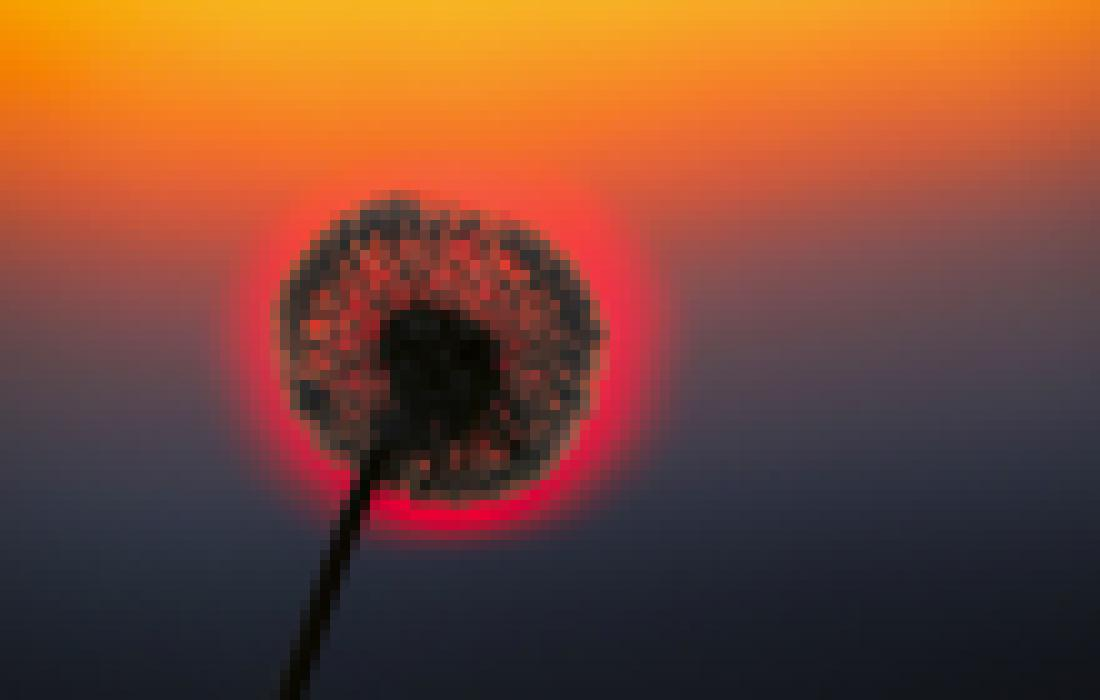
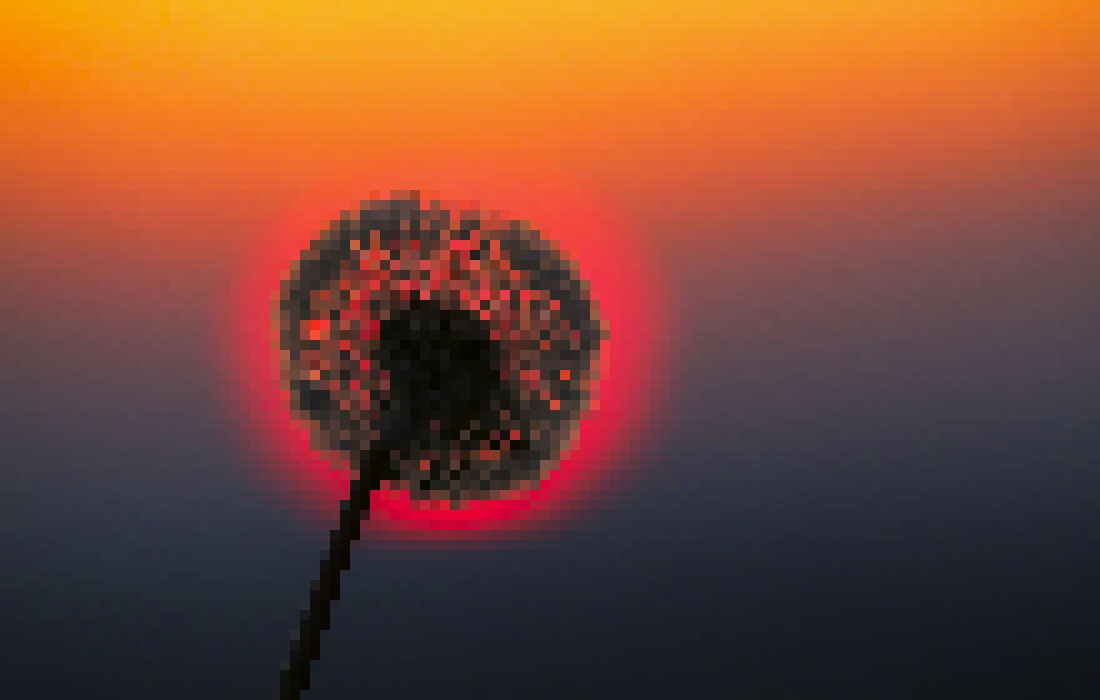
iss2

diff --git a/main.py b/main.py
@@ -1,3 +1,5 @@
+import numpy as np
+import cv2
 import random
 from PIL import Image
 
@@ -86,7 +88,7 @@ for x in range(new_width):
 # Сохранение полученного пиксель-арта
 pixel_art.save('pixel_art.jpg')
 """
-
+"""
 main_image = Image.open('2.jpg')
 # Масштабирование пиксель-арта до нужных размеров
 width, height = main_image.size
@@ -125,3 +127,52 @@ result = Image.alpha_composite(
 
 # Сохранение результата
 result.save('result_image.png')
+"""
+"""
+# Загрузка фото
+image = cv2.imread('1.jpg')
+
+# Определение размеров пиксель-арта
+pixel_size = 10
+
+# Масштабирование изображения
+height, width = image.shape[:2]
+new_width = width // pixel_size
+new_height = height // pixel_size
+resized_image = cv2.resize(image, (new_width, new_height))
+
+# Создание пустого холста для пиксель-арта
+pixel_art = np.zeros(
+    (new_height * pixel_size, new_width * pixel_size, 3), dtype=np.uint8)
+
+# Заполнение пиксель-арта
+for x in range(new_width):
+    for y in range(new_height):
+        rgb_values = resized_image[y, x]
+        pixel_art[y * pixel_size:(y + 1) * pixel_size,
+                  x * pixel_size:(x + 1) * pixel_size] = rgb_values
+
+# Сохранение полученного пиксель-арта
+cv2.imwrite('pixel_art.jpg', pixel_art)
+"""
+
+# Загрузка основного фото и пиксель-арта
+main_image = cv2.imread('1.jpg')
+pixel_art = cv2.imread('pixel_art.png', cv2.IMREAD_UNCHANGED)
+
+# Масштабирование пиксель-арта до размеров основного фото
+pixel_art = cv2.resize(pixel_art, (main_image.shape[1], main_image.shape[0]))
+
+# Извлечение альфа-канала из пиксель-арта (если есть)
+if pixel_art.shape[2] == 4:
+    alpha = pixel_art[:, :, 3]
+    alpha = alpha / 255.0
+    alpha = alpha[:, :, np.newaxis]
+else:
+    alpha = None
+
+# Наложение пиксель-арта на основное фото
+result = main_image * (1 - alpha) + pixel_art[:, :, :3] * alpha
+
+# Сохранение результата
+cv2.imwrite('result_image.jpg', result)
